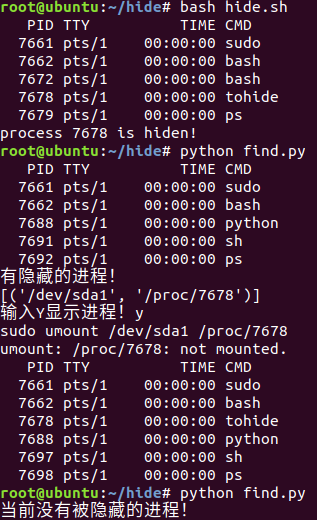
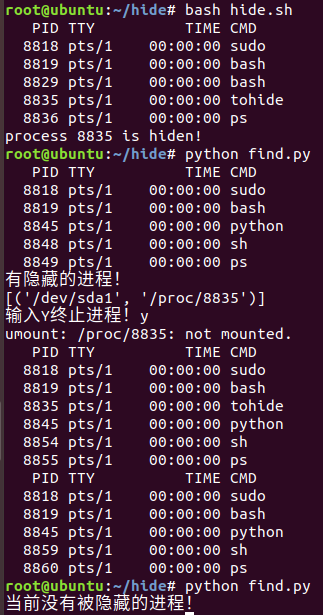
6.29

diff --git a/6.29.md b/6.29.md
@@ -18,20 +18,12 @@
 
 ## 隐藏方式
 
-> gcc tohide.c -o tohide
->
-> ./tohide &
->
-> ps
->
-> pid=$(ps -ef | grep "tohide" | grep -v grep | awk '{print $2}')
->
-> sudo mount /dev/sda1 /proc/$pid
->
-> echo process $pid is hiden!
+需要隐藏的进程放到后台运行，用进程名搜出它的PID，使用mount方法进行隐藏。
 
-用shell脚本进行隐藏。需要隐藏的进程放到后台运行，用进程名搜出它的PID，使用mount方法进行隐藏。
+# 隐藏进程的检测与终止
 
-# 隐藏进程的检测与显示
+用python执行命令```cat /proc/mounts```，分析输出，找到格式对应的挂载信息，然后取消挂载，终止进程。
 
-用python执行命令```cat /proc/mounts```，分析输出，找到格式对应的挂载信息，然后取消挂载。
+# 成果
+
+![](demo1.png)
